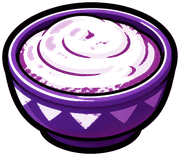
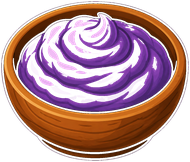
Swap in buffet pickups, cabin hazards, and a scrolling cruise sunset.
Food and gym/door sprites are chroma-keyed; cloud is the fart puff; Pride of America bg now parallax-scrolls behind Lance.

diff --git a/js/game.js b/js/game.js
@@ -142,6 +142,8 @@
       this.load.image("seagull", "assets/seagull.png");
       this.load.image("sign", "assets/sign.png");
       this.load.image("bg", "assets/bg.jpg");
+      this.load.image("bgFar", "assets/bg-far.jpg");
+      this.load.image("bgRail", "assets/bg-rail.png");
     }
     create() {
       this.scene.start("title");
@@ -266,8 +268,12 @@
       this.swipeStart = null;
       this.jetSfx = 0;
 
-      this.bg1 = this.add.image(0, H / 2, "bg").setOrigin(0, 0.5).setDisplaySize(W, H);
-      this.bg2 = this.add.image(W, H / 2, "bg").setOrigin(0, 0.5).setDisplaySize(W, H);
+      this.bgFar1 = this.add.image(0, H / 2, "bgFar").setOrigin(0, 0.5).setDisplaySize(W, H);
+      this.bgFar2 = this.add.image(W, H / 2, "bgFar").setOrigin(0, 0.5).setDisplaySize(W, H);
+      this.bg1 = this.add.image(0, H / 2, "bg").setOrigin(0, 0.5).setDisplaySize(W, H).setAlpha(0.92);
+      this.bg2 = this.add.image(W, H / 2, "bg").setOrigin(0, 0.5).setDisplaySize(W, H).setAlpha(0.92);
+      this.rail1 = this.add.image(0, H, "bgRail").setOrigin(0, 1).setDisplaySize(W, 168).setDepth(6);
+      this.rail2 = this.add.image(W, H, "bgRail").setOrigin(0, 1).setDisplaySize(W, 168).setDepth(6);
 
       this.foods = this.physics.add.group();
       this.hazards = this.physics.add.group();
@@ -420,13 +426,13 @@
       if (roll < 0.46) {
         const r = Math.random();
         const kind = r < 0.22 ? "spaghetti" : r < 0.42 ? "poi" : r < 0.62 ? "musubi" : r < 0.82 ? "pineapple" : "chocolate";
-        this.spawnItem(this.foods, kind, y, 0.42 + Math.random() * 0.12);
+        this.spawnItem(this.foods, kind, y, 0.58 + Math.random() * 0.1);
       } else if (roll < 0.58) {
         this.spawnItem(this.pickups, "stud", y, 0.38);
       } else if (roll < 0.72) {
-        this.spawnItem(this.doors, "door", Phaser.Math.Between(220, 500), 0.7);
+        this.spawnItem(this.doors, "door", Phaser.Math.Between(240, 500), 0.62);
       } else if (roll < 0.84) {
-        this.spawnItem(this.hazards, "gym", y, 0.5);
+        this.spawnItem(this.hazards, "gym", y, 0.62);
       } else if (roll < 0.93) {
         this.spawnItem(this.hazards, "seagull", Phaser.Math.Between(110, 260), 0.46);
       } else {
@@ -545,11 +551,22 @@
       this.distance += (this.scroll * dt) / 1000;
       this.score += dt * 0.02;
 
-      const bgSpeed = this.scroll * 0.35 * (dt / 1000);
-      this.bg1.x -= bgSpeed;
-      this.bg2.x -= bgSpeed;
-      if (this.bg1.x <= -W) this.bg1.x = this.bg2.x + W;
-      if (this.bg2.x <= -W) this.bg2.x = this.bg1.x + W;
+      const wrapPair = (a, b) => {
+        if (a.x <= -W) a.x = b.x + W;
+        if (b.x <= -W) b.x = a.x + W;
+      };
+      const far = this.scroll * 0.18 * (dt / 1000);
+      const mid = this.scroll * 0.34 * (dt / 1000);
+      const near = this.scroll * 0.92 * (dt / 1000);
+      this.bgFar1.x -= far;
+      this.bgFar2.x -= far;
+      this.bg1.x -= mid;
+      this.bg2.x -= mid;
+      this.rail1.x -= near;
+      this.rail2.x -= near;
+      wrapPair(this.bgFar1, this.bgFar2);
+      wrapPair(this.bg1, this.bg2);
+      wrapPair(this.rail1, this.rail2);
 
       this.applyLanceLook();
       this.sweep(this.foods);
